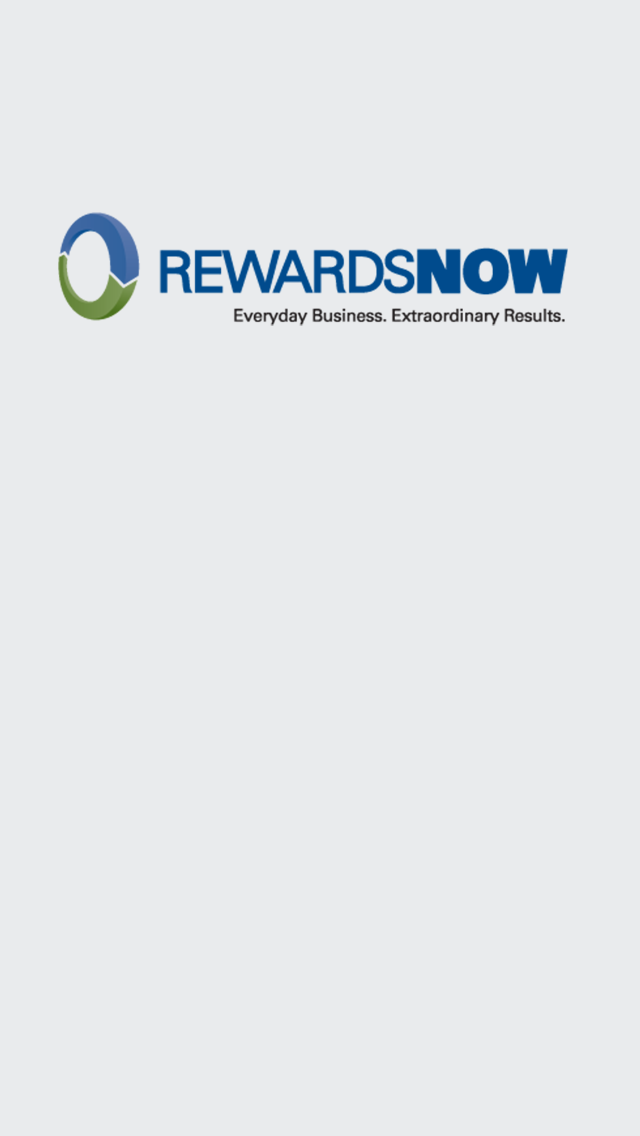
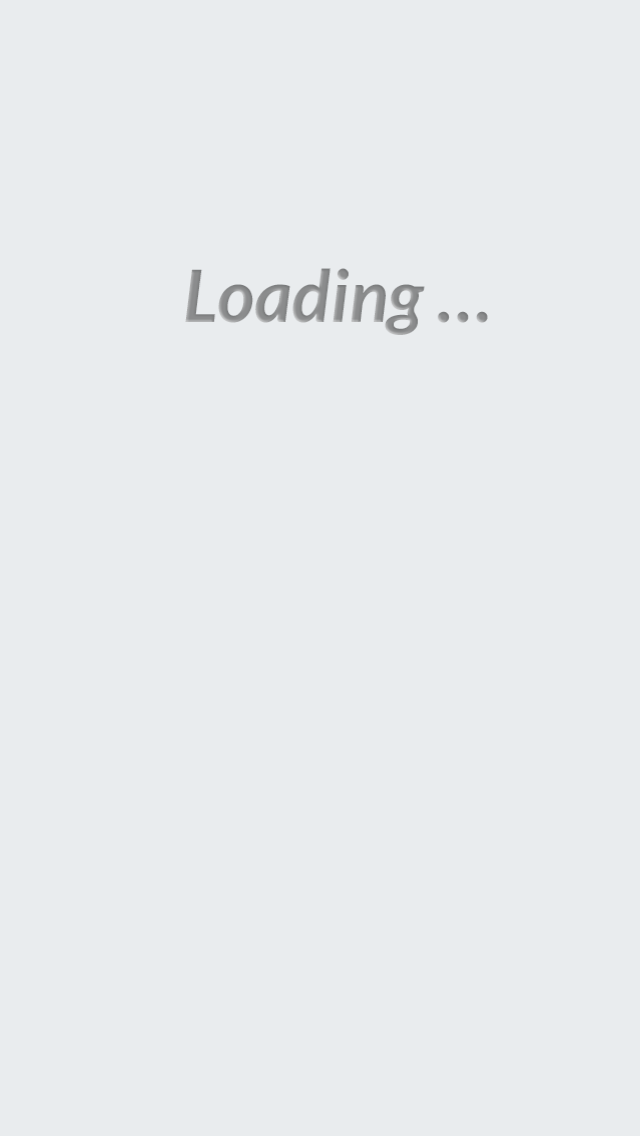
Updated Default images and changed how the fade in works on PreAuth screen.

Changed region(s): [[0.25, 0.2157, 0.9062, 0.3081], [0.0938, 0.1849, 0.2188, 0.3081]]

diff --git a/RewardsNow/RNPreAuthViewController.m b/RewardsNow/RNPreAuthViewController.m
@@ -30,7 +30,7 @@
     [super viewDidLoad];
     self.hasFinishedDownloadingImage = NO;
     self.hasFinishedDownloadingBranding = NO;
-    self.fields = @[self.helperLabel, self.codeTextField, self.continueButton];
+    self.fields = @[self.headerImageView, self.helperLabel, self.codeTextField, self.continueButton];
     [self.navigationController setNavigationBarHidden:YES];
     
     if (!IS_WIDESCREEN) {
